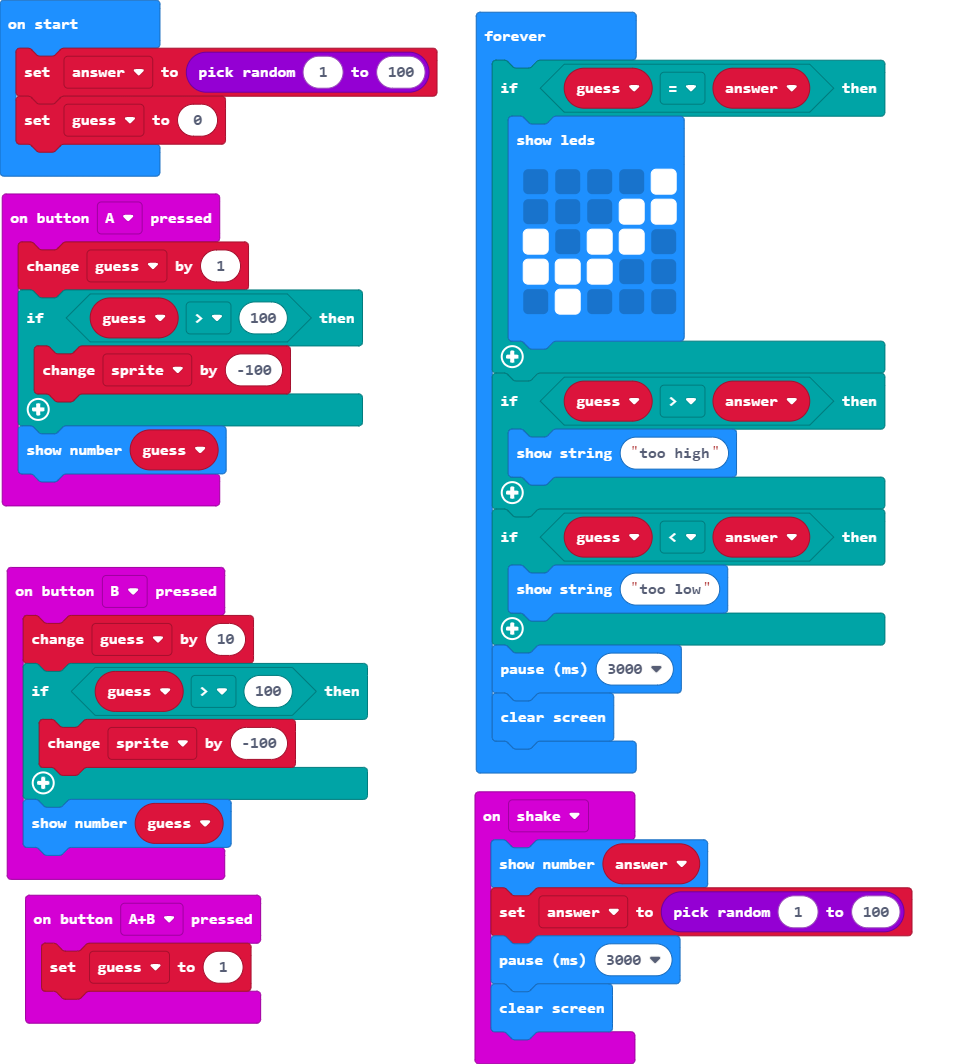
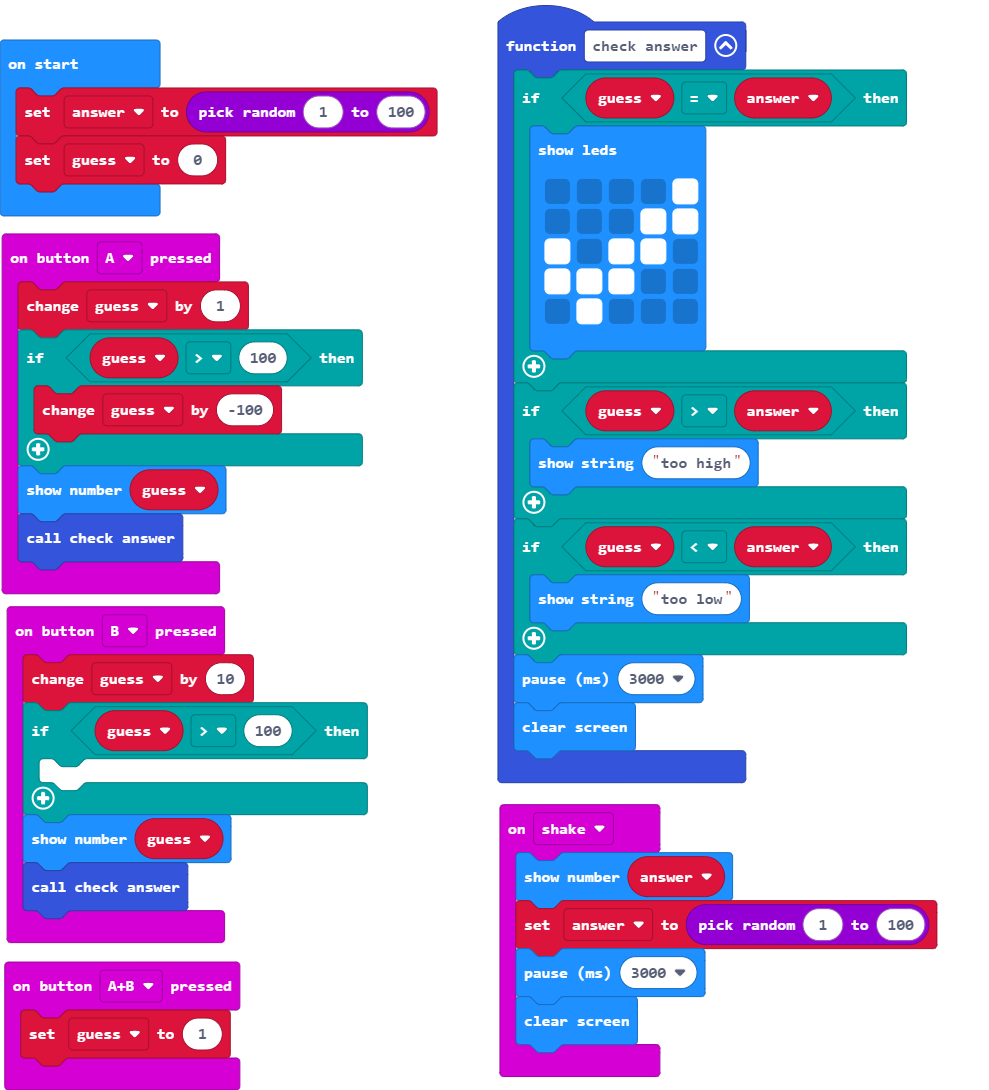
Update main.blocks, main.ts

diff --git a/main.ts b/main.ts
@@ -1,9 +1,10 @@
 input.onButtonPressed(Button.A, function () {
     guess += 1
     if (guess > 100) {
-        sprite += -100
+        guess += -100
     }
     basic.showNumber(guess)
+    check_answer()
 })
 input.onButtonPressed(Button.AB, function () {
     guess = 1
@@ -11,9 +12,10 @@ input.onButtonPressed(Button.AB, function () {
 input.onButtonPressed(Button.B, function () {
     guess += 10
     if (guess > 100) {
-        sprite += -100
+    	
     }
     basic.showNumber(guess)
+    check_answer()
 })
 input.onGesture(Gesture.Shake, function () {
     basic.showNumber(answer)
@@ -21,12 +23,7 @@ input.onGesture(Gesture.Shake, function () {
     basic.pause(3000)
     basic.clearScreen()
 })
-let sprite = 0
-let guess = 0
-let answer = 0
-answer = randint(1, 100)
-guess = 0
-basic.forever(function () {
+function check_answer () {
     if (guess == answer) {
         basic.showLeds(`
             . . . . #
@@ -44,4 +41,8 @@ basic.forever(function () {
     }
     basic.pause(3000)
     basic.clearScreen()
-})
+}
+let guess = 0
+let answer = 0
+answer = randint(1, 100)
+guess = 0
